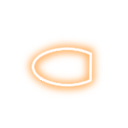
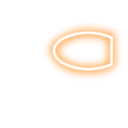
Fixed turret rotation

Changed region(s): [[0.1875, 0.1875, 0.9375, 0.75]]

diff --git a/src/objects/cannon.cpp b/src/objects/cannon.cpp
@@ -7,7 +7,7 @@ Cannon::Cannon(float x, float y) : Sprite("", 64, 64, CANNON_TAG) {
 }
 
 void Cannon::display() {
-  GLfloat base_vertices[] = {0,64,0, 64,64,0, 0,0,0, 64,0,0};
+  GLfloat base_vertices[] = {0,128,0, 128,128,0, 0,0,0, 128,0,0};
   GLfloat base_tex[] = {0,1,0, 1,1,0, 0,0,0, 1,0,0};
 
   glColor4f(alpha, alpha, alpha, alpha);
@@ -35,10 +35,10 @@ void Cannon::display() {
   
   // place and rotate the turret
   glLoadIdentity();
-  glTranslatef(x - 11, y - 61, 0);
-  glTranslatef(42, 67, 0.0);
+  glTranslatef(x, y, 0);
+  glTranslatef(64.0f, 51.0f, 0.0);
   glRotatef(turret_angle, 0.0, 0.0, 1.0);
-  glTranslatef(-42, -67, 0.0);
+  glTranslatef(-64.0f, -51.0f, 0.0);
   
   glEnableClientState(GL_VERTEX_ARRAY);
   glEnableClientState(GL_TEXTURE_COORD_ARRAY);

diff --git a/src/main.cpp b/src/main.cpp
@@ -30,12 +30,14 @@ int main(int argc, char* argv[]) {
   
   SoundManager::Instance()->loadMusic("assets/music.mp3");
   SoundManager::Instance()->loadEffects();
-  SoundManager::Instance()->playMusic();
+  // SoundManager::Instance()->playMusic();
 
   // show the title scene and start the game loop
-  TitleScene *title_scene = new TitleScene();
-  bool quit = engine.showScene(title_scene);
+  // TitleScene *title_scene = new TitleScene();
+  // bool quit = engine.showScene(title_scene);
   // delete title_scene;
+  
+  bool quit = false;
   
   if (!quit) {
     GameplayScene *gameplay_scene = new GameplayScene();

diff --git a/src/scenes/gameplay_scene.cpp b/src/scenes/gameplay_scene.cpp
@@ -100,9 +100,9 @@ void GameplayScene::gameLoop() {
         
         Cannon *cannon = (Cannon*)findObject(CANNON_TAG);
         if (cannon != NULL) {
-          angle = getInvertedMouseAngle(cpv(cannon->getX(), cannon->getY()), event_coords);
+          angle = getInvertedMouseAngle(cpv(cannon->getX() + 64.0f, cannon->getY() + 51.0f), event_coords);
           
-          if (angle < 17 || angle > 144)
+          // if (angle < 17 || angle > 144)
             cannon->rotateTurret(angle);
         }
       } else if (event.type == SDL_MOUSEBUTTONUP) {
